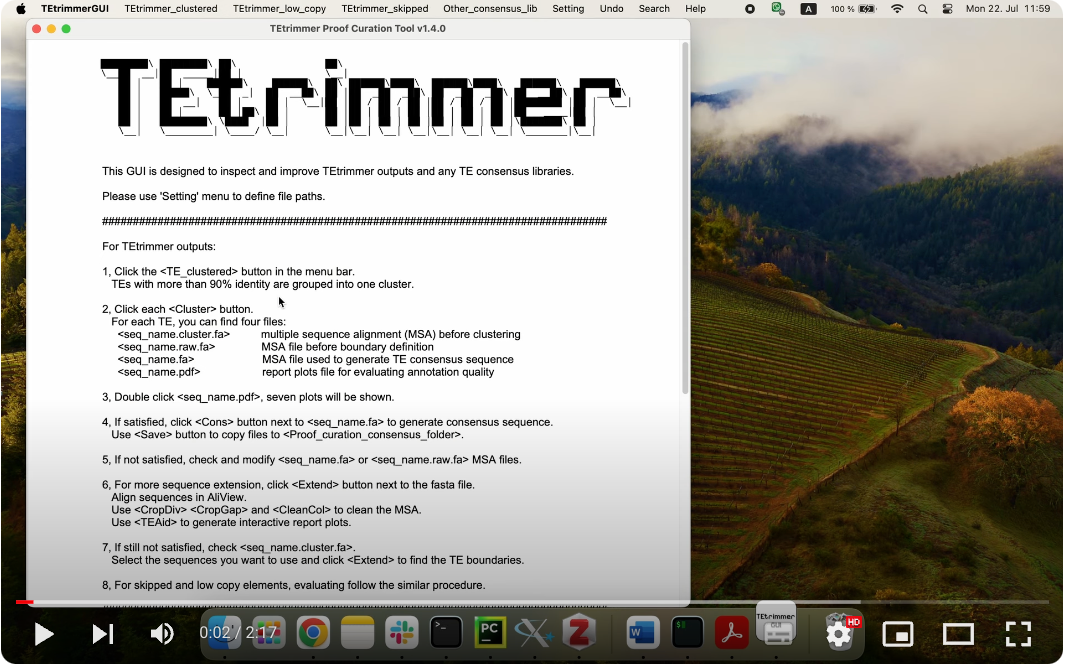
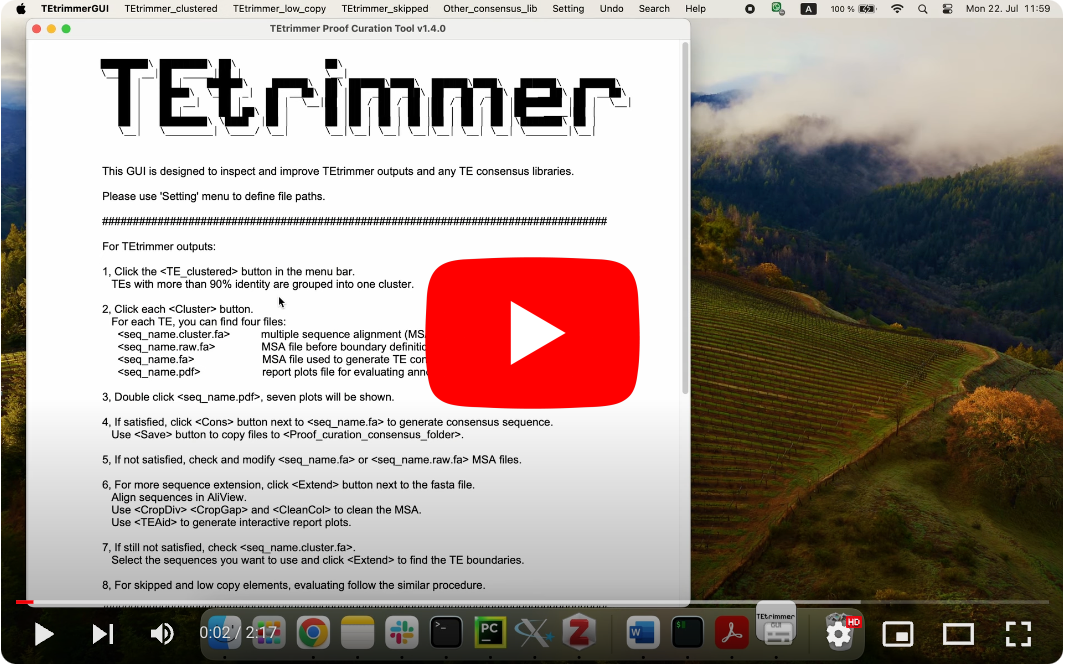
modified TEAid selfblast

Changed region(s): [[0.3718, 0.3604, 0.6197, 0.6306]]

diff --git a/tetrimmer/boundarycrop.py b/tetrimmer/boundarycrop.py
@@ -775,7 +775,10 @@ def find_boundary_and_crop(bed_file, genome_file, output_dir, pfam_dir, seq_obj,
         TE_aid_path = os.path.join(os.path.dirname(os.path.abspath(__file__)), "TE-Aid-master")
 
         # Because terminal repeats were found before, use the previous result
-        # Run TE_aid. If low_copy is 'True', a self-BLAST will be performed
+        # Run TE_aid. If low_copy is 'True'
+        # The low_copy will only affect it to keep self blast result from TEAid.
+        # it is Ture, TE_aid_object.run will check the terminal repeat based on the self blast output of TEAid
+        # Otherwise, it use the terminal repeat result "found_match_crop"
         if not found_match_crop:
             TE_aid_object = TEAid(orf_cons, output_dir, genome_file, error_file=error_files, TE_aid_dir=TE_aid_path)
             TE_aid_plot, found_match = TE_aid_object.run(low_copy=True)

diff --git a/README.md b/README.md
@@ -248,10 +248,10 @@ More options are available:
 - 📄**TEtrimmer_consensus_merged.fasta** - *TE consensus library file after de-duplication.*
 
 
-## Optional!!! Manual inspection of TEtrimmer outputs by provided GUI
-You can use this graphical user interface (GUI) tool to inspect and improve TEtrimmer generated TE consensus library. 
+## Optional! But highly recommended! Manual inspection of TEtrimmer outputs by provided GUI
+You can use the TEtrimmerGUI tool to inspect and improve TEtrimmer generated TE consensus library. 
 This step is optional! TEtrimmer output can be used for genome-wide TE annotation directly. 
-If you want to get a traditional manual-curation level TE consensus library, you have to perform this step. 
+But if you want to get a traditional manual-curation level TE consensus library, you have to perform this step. 
 
 ### Run TEtrimmerGUI by executable file
 
@@ -271,8 +271,7 @@ xattr -d com.apple.quarantine <your_path>/TEtrimmerGUI.app
 Installation is not required, unpack and double-click the executable file to start TEtrimmerGUI. It may take 
 around 30s for initialization after double-clicking "TEtrimmerGUI", please be patient for the first time.
 
-You can put the executable file on your desktop or launchpad
-![TEtrimmerGUI](docs/TEtrimmer_in_different_OS.jpg)
+You can put the executable file on your desktop or launchpad.
 
 ### Run TEtrimmerGUI by the source code
 
@@ -288,7 +287,7 @@ python <your_path>/tetrimmer/TEtrimmer_proof_anno_GUI/annoGUI.py
 ```
 You can easily check and improve TEtrimmer outputs and get manual curation level TE consensus library.
 
-TEtrimmer GUI tool can extend MSA, generate interactive plots, and clean MSA.
+TEtrimmer GUI tool can extend MSA, generate interactive plots, and clean MSA. A demo video is provided.
 [![Proof curation GUI](docs/TEtrimmerGUI_video.png)](https://youtu.be/u1WxPmS9eBk)
 ![Proof_curation_GUI_work_page](docs/TEtrimmer_GUI_work_space.png)
 
